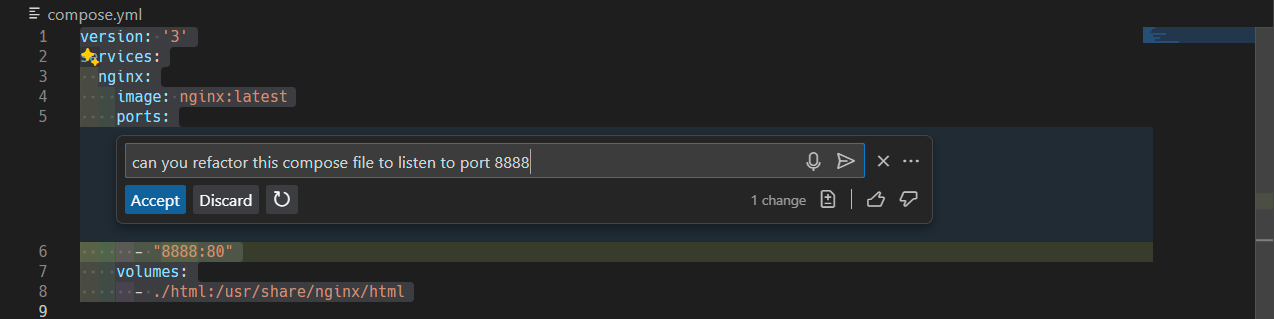
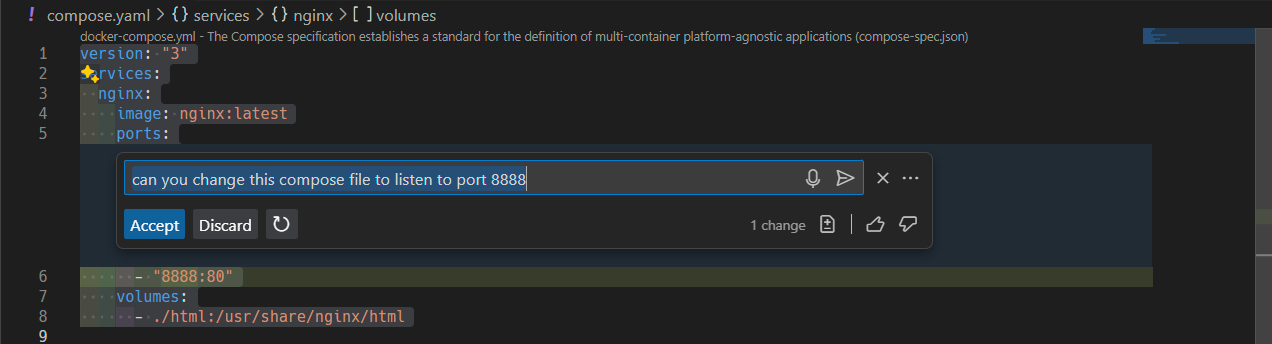
made example more clear

diff --git a/README.md b/README.md
@@ -84,10 +84,10 @@ Save the following code to `compose.yml`:
 ![](images/InsertToNewFile.png)
 
 
-Let's refactor compose file to listen to port 8888, but first, open the `compose.yml` file, select all, and bringing up the Copilot function in the editor by pressing `CTRL-i` and type:
+Let's change compose file to listen to port 8888, but first, open the `compose.yml` file, select all, and bringing up the Copilot function in the editor by pressing `CTRL-i` and type:
 
 ```
-can you refactor this compose file to listen to port 8888
+can you change this compose file to listen to port 8888
 ```
 
 Accept the change and save the file.
